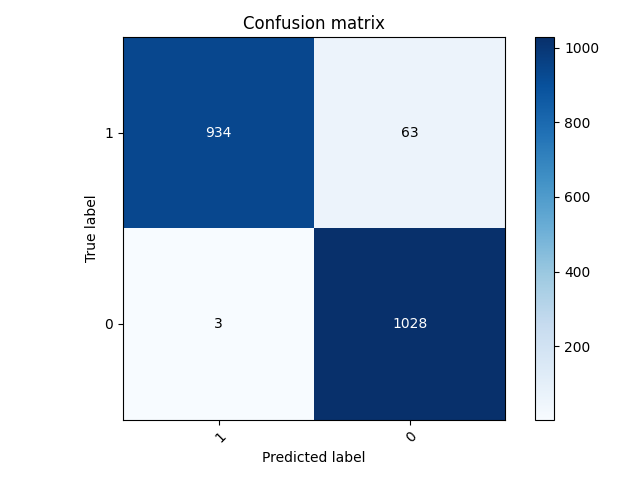
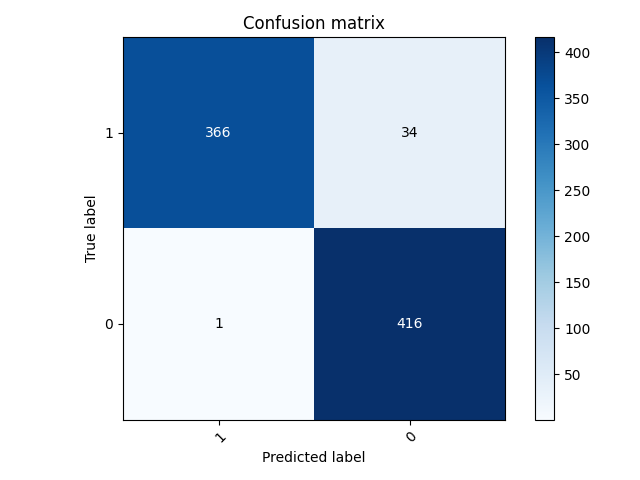
epoch deleted
description added

enabled multi-model training

diff --git a/templates/data.html b/templates/data.html
@@ -75,11 +75,22 @@
     .inputDiv {
         background-color: #abd4c3;
         position: absolute;
-        width: 250px;
+        width: 330px;
         height: 220px;
         left: 50px;
         top: 50px;
         margin-block-start: 70px;
+    }
+
+    .infoDiv {
+        background-color: #7fa093e9;
+        position: absolute;
+        width: 600px;
+        height: 350px;
+        left: 50px;
+        top: 50px;
+        margin-block-start: 270px;
+        padding-inline-start: 10px;
     }
     
     /* The container */
@@ -154,8 +165,8 @@
         position: absolute;
         width: 200px;
         height: 60px;
-        left: 300px;
-        top: 100px;
+        left: 420px;
+        top: 130px;
         background: #515B60;
         border-radius: 54px;
         color: white;
@@ -164,8 +175,8 @@
         position: absolute;
         width: 200px;
         height: 60px;
-        left: 300px;
-        top: 200px;
+        left: 420px;
+        top: 220px;
         background: #515B60;
         border-radius: 54px;
         color: white;
@@ -198,8 +209,8 @@
         position: absolute;
         width: 300px;
         height: 60px;
-        left: 150px;
-        top: 400px;
+        left: 1100px;
+        top: 100px;
     }
 
     </style>
@@ -222,7 +233,7 @@
                 <option value="No">No</option>
                 </select>
                 
-                <br> <br>
+                <br> <br> <br>
                 <label for="column"><b>Choose a column</b></label>
                 <select name="columns" id="columns">
                 <option value="Select">Select</option>
@@ -245,6 +256,23 @@
             
         <div id="plot-pie-chart"></div>
         <div id="box-plot"></div>
+        <div class="infoDiv">
+            <h2>
+                About Features
+            </h2>
+            <p>
+                <b>Administrative</b>, <b>Administrative Duration</b>, <b>Informational</b>, <b>Informational Duration</b>, <b>Product Related</b>, <b>Product Related Duration</b>: represent the number of different types of pages visited by the visitor in that session and total time spent in each of these page categories. The values of these features are derived from the URL information of the pages visited by the user and updated in real time when a user takes an action, e.g. moving from one page to another. 
+            </p>
+            <p>
+                <b>Bounce Rate: </b> The percentage of visitors who enter the site from that page and then leave ("bounce") without triggering any other requests to the analytics server during that session. 
+            </p>
+            <p>
+                <b>Exit Rate: </b> A feature for a specific web page is calculated as for all pageviews to the page, the percentage that were the last in the session.
+            </p>
+            <p>
+                <b>Page Value: </b> Representation of the average value for a web page that a user visited before completing an e-commerce transaction.
+            </p>
+        </div>
 
         <script>
         var pie_chart_button = document.getElementById("pie-chart-button")

diff --git a/templates/index.html b/templates/index.html
@@ -192,23 +192,23 @@
             <div class="myDiv">
                 <h1><b>Models</b></h1>
                 <label class="container">Neural Network
-                    <input type="checkbox" name="model_names" value="NN">
+                    <input type="checkbox" class="radio" name="model_names" value="NN">
                     <span class="checkmark"></span>
                 </label>
                 <label class="container">Decision Tree
-                    <input type="checkbox" name="model_names" value="DT">
+                    <input type="checkbox" class="radio" name="model_names" value="DT">
                     <span class="checkmark"></span>
                 </label>
                 <label class="container">Random Forest
-                    <input type="checkbox" name="model_names" value="RF">
+                    <input type="checkbox" class="radio" name="model_names" value="RF">
                     <span class="checkmark"></span>
                 </label>
                 <label class="container">Naive Bayes
-                    <input type="checkbox" name="model_names" value="NB">
+                    <input type="checkbox" class="radio" name="model_names" value="NB">
                     <span class="checkmark"></span>
                 </label>
                 <label class="container">Support Vector Machine
-                    <input type="checkbox" name="model_names" value="SVM">
+                    <input type="checkbox" class="radio" name="model_names" value="SVM">
                     <span class="checkmark"></span>
                 </label>
                 
@@ -220,8 +220,7 @@
                 <label for="tr_size"><b>Train-set Size:  % </b></label>
                 <input class="inputTrainSize" type="number" id="tr_size" name="tr_size" min="60" max="90" step="10"><br>
                 
-                <label for="n_epoch"><b>Number of Epochs: </b></label>
-                <input class="inputEpoch" type="number" id="n_epoch" name="n_epoch" min="1" max="5"><br>
+                
             </div>
             <input type="submit" class="btn btnStart" name="submit_button" value="Start the Training" />
         </form>

diff --git a/templates/contact.html b/templates/contact.html
@@ -34,13 +34,13 @@
 
     .contactDiv {
         background-color: #617D72;    
-        position: absolute;
-        margin-block-start: 100px;
-        margin-inline-start: 100px;
+        position:absolute;
+        text-align: center;
+        margin-block-start: 7.5%;
+        margin-inline-start: 10%;
         width: 80%;
         height: 80%;
         border-radius: 2%;
-        
     }
 
     .member_div {

diff --git a/app.py b/app.py
@@ -70,30 +70,46 @@ def train():
         tr_size = request.form.get('tr_size')
         print('Train-set size: ' + tr_size)
 
-        n_epoch = request.form.get('n_epoch')
-        print('# epoch: ' + n_epoch)
-
         models = request.form.getlist('model_names')
         print('Models: ', models, '\n')
+        max_acc = 0
 
-        model, x, x_test, y, y_test = train_model(models[0], int(d_size), int(tr_size))
-        test_accuracy, test_precision, test_recall, test_f1 = compute_accuracy(model, x_test, y_test)
-        train_accuracy, train_precision, train_recall, train_f1 = compute_accuracy(model, x, y)
+        for m in models:
 
-        print('Test Accuracy: ', test_accuracy)
-        print('Test Precision: ', test_precision)
-        print('Test Recall: ', test_recall)
-        print('Test F1: ', test_f1)
+            model, x, x_test, y, y_test = train_model(m, int(d_size), int(tr_size))
+            test_accuracy, test_precision, test_recall, test_f1 = compute_accuracy(model, x_test, y_test)
+            train_accuracy, train_precision, train_recall, train_f1 = compute_accuracy(model, x, y)
 
-        print('Train Accuracy: ', train_accuracy)
-        print('Train Precision: ', train_precision)
-        print('Train Recall: ', train_recall)
-        print('Train F1: ', train_f1)
-        confusion_matrix = plot_confusion_matrix(model, x_test, y_test, [1,0])
+            print('\nModel: ', MODEL_DICT[m])
+            print('Test Accuracy: ', test_accuracy)
+            print('Test Precision: ', test_precision)
+            print('Test Recall: ', test_recall)
+            print('Test F1: ', test_f1)
+
+            print('Train Accuracy: ', train_accuracy)
+            print('Train Precision: ', train_precision)
+            print('Train Recall: ', train_recall)
+            print('Train F1: ', train_f1)
+
+            if test_accuracy > max_acc:
+                m_cm = m
+                max_acc = test_accuracy_cm = test_accuracy
+                test_precision_cm = test_precision
+                test_recall_cm = test_recall
+                test_f1_cm = test_f1
+
+                train_accuracy_cm = train_accuracy
+                train_precision_cm = train_precision
+                train_recall_cm = train_recall
+                train_f1_cm = train_f1
+
+                confusion_matrix = plot_confusion_matrix(model, x_test, y_test, [1,0])
+
         confusion_matrix.savefig('static/images/cm.png')
-    return render_template('train_results.html', model_name= MODEL_DICT[models[0]] , test_accuracy=test_accuracy, test_precision=test_precision,
-                           test_recall=test_recall, test_f1=test_f1, train_accuracy=train_accuracy,
-                           train_precision=train_precision, train_recall=train_recall, train_f1=train_f1,
+
+    return render_template('train_results.html', model_name= MODEL_DICT[m_cm] , test_accuracy=test_accuracy_cm, test_precision=test_precision_cm,
+                           test_recall=test_recall_cm, test_f1=test_f1_cm, train_accuracy=train_accuracy_cm,
+                           train_precision=train_precision_cm, train_recall=train_recall_cm, train_f1=train_f1_cm,
                             confusion_matrix = 'static/images/cm.png', PageTitle = "Train Results")
 @app.route('/')
 def index():
